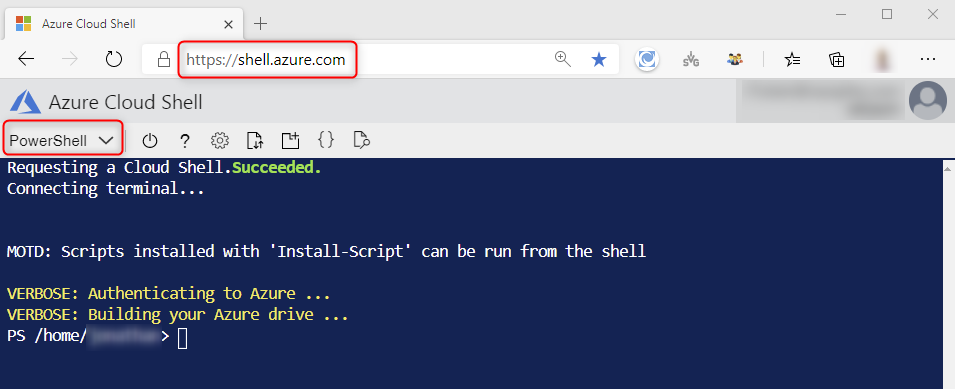
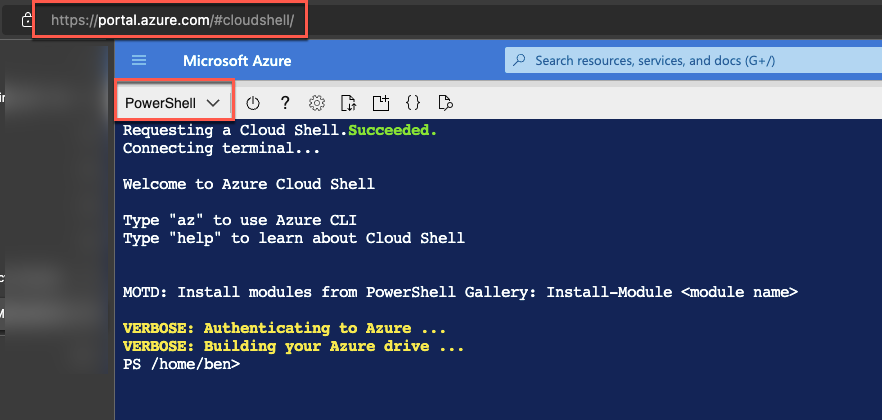
test fix updates 2

diff --git a/Hands-on lab/HOL step-by step - Building a resilient IaaS architecture.md b/Hands-on lab/HOL step-by step - Building a resilient IaaS architecture.md
@@ -211,7 +211,7 @@ In this task, you will build a Windows Failover Cluster and configure SQL Always
 
 9.  On **SQLVM1**, select **Start** and then choose **Windows PowerShell**.
 
-    ![Screenshot of the Windows PowerShell ISE icon.](images/image71.png "Windows PowerShell ISE icon")
+    ![Screenshot of the Windows PowerShell icon.](images/image71.png "Windows PowerShell icon")
 
 10. Copy and paste  the following command into PowerShell ISE and execute it. This will create the Windows Failover Cluster and add all the SQL VMs as nodes in the cluster. It will also assign a static IP address of **10.0.2.99** to the new Cluster named **AOGCLUSTER**.
 
@@ -411,7 +411,7 @@ In this task, you will build a Windows Failover Cluster and configure SQL Always
 
     ![A call out points to ContosoInsurance (Synchronized) in SQL Management Studio.](images/image202.png "SQL Management Studio")
 
-57. Move back to **PowerShell ISE** on **SQLVM1**. Open a new file, paste in the following script, and select the **Play** button. This will update the Failover cluster with the IP address of the Listener that you created for the AOG.
+57. Move back to **PowerShell** on **SQLVM1**. Open a new file, paste in the following script, and select the **Play** button. This will update the Failover cluster with the IP address of the Listener that you created for the AOG.
 
     ```Powershell
     $ClusterNetworkName = "Cluster Network 1"
@@ -423,7 +423,7 @@ In this task, you will build a Windows Failover Cluster and configure SQL Always
     Start-ClusterResource -Name "BCDRAOG"
     ```
 
-    ![In the Windows PowerShell ISE window, the play button is selected. The script from the lab guide has been executed.](images/ha-ise-listenerip.png "Windows PowerShell ISE window")
+    ![In the Windows PowerShell window, the script from the lab guide has been executed.](images/ha-ise-listenerip.png "Windows PowerShell window")
 
 58. Move back to SQL Management Studio and select **Connect** and then **Database Engine**.
 
@@ -499,11 +499,11 @@ In this exercise, you will enable a secondary DR site in East US 2. This site wi
 
 In this task, you will deploy the resources used by the DR environment. First, you will deploy a template which will create the network and virtual machines. You will then manually deploy the Recovery Services Vault and Azure Automation account used by Azure Site Recovery.
 
-1.  In a new browser tab, navigate to **https://shell.azure.com**. Open a **PowerShell** session, and create a Cloud Shell storage account if prompted to do so.
+1.  In a new browser tab, navigate to **https://shell.azure.com**, you'll be redirected to **https://portal.azure.com/#cloudshell** automatically. Open a **PowerShell** session, and create a Cloud Shell storage account if prompted to do so.
 
     ![Screenshot of the Azure Cloud Shell with URL and PowerShell mode highlighted.](images/dr-cloudshell.png "Azure Cloud Shell")
 
-2.  Execute the following commands. These will create the DR resource group and deploy the DR resources. 
+2.  Update the **-Location** parameter in each of the commands below to be a different location than **ContosoRG11**. Execute the commands. These commands will create the DR resource group and deploy the DR resources. 
     You can proceed to the following tasks while the template deployment is in progress.
 
     ```PowerShell
@@ -555,7 +555,7 @@ Next, you will create the Recovery Services Vault used to replicate the Web tier
 
 8.  From the Azure portal, select **+Create a resource**, followed by **IT & Management Tools**, then **Automation**.
 
-9.  Complete the **Add Automation Account** blade using the following inputs and then select **Create**:
+9.  Complete the **Add Automation Account** blade using the following inputs and then select **Review + Create** followed by **Create**:
 
     - **Name**: Enter a Globally unique name starting with `BCDR`.
     - **Resource group**: Use existing / **ContosoRG2**
@@ -566,9 +566,9 @@ Next, you will create the Recovery Services Vault used to replicate the Web tier
 
     > **Note:** Azure Automation accounts are only allowed to be created in certain Azure regions, but they can act on any region in Azure (except Government, China or Germany). It is not a requirement to have your Azure Automation account in the same region as the failover resources, but it **CANNOT** be in your primary region.
 
-10. Once the Azure automation account has been created, open the account and select **Modules gallery** under **Shared Resources**.
+10. Once the Azure automation account has been created, open the account and select **Modules** under **Shared Resources**.
 
-    ![Under Shared Resources, Modules gallery is selected.](images/image46.png "Shared Resources section")
+    ![Under Shared Resources, Modules is selected.](images/image46.png "Shared Resources section")
 
 11. When the Modules load, search for and select **Az.Accounts**, then select **Import**, then **OK**.
 
@@ -588,17 +588,17 @@ Next, you will create the Recovery Services Vault used to replicate the Web tier
 
 > **Note**: You must be connected to the **LABVM** to complete the next steps.
 
-15. Select the **Folder** icon on the Import blade and select the file **ASRRunbookSQL.ps1** from the `C:\HOL\` directory on the **LABVM**. The Runbook type should default to **PowerShell Workflow**. Notice that the Name can't be changed. This is the name of the Workflow inside of the Runbook script. Select **Create**.
+15.  Select the **Folder** icon on the Import blade and select the file **ASRRunbookSQL.ps1** from the `C:\HOL\` directory on the **LABVM**. Set the Runbook type to **PowerShell Workflow**. Update the name to be **ASRSQLFailover**. This is the name of the Workflow inside of the Runbook script. Leave everything else set to the default. Select **Import**.
 
     ![Fields in the 'Import a runbook' blade are set to the previously defined values.](images/dr-rbimp2.png "Import a runbook")
 
-16. Once the Runbook is imported, the runbook editor will load. If you wish, you can review the comments to better understand the runbook. Once you are ready, select **Publish**, followed by **Yes** at the confirmation prompt. This makes the runbook available for use.
+16.  Once the Runbook is imported, the runbook editor will load. If you wish, you can review the comments to better understand the runbook. Once you are ready, select **Publish**, followed by **Yes** at the confirmation prompt. This makes the runbook available for use.
 
     ![On the top menu of the Edit PowerShell Workflow Runbook blade, Publish is selected.](images/dr-rbpub.png "Publish runbook")
 
-17. Repeat the above steps to import and publish the **ASRRunbookWEB.ps1** runbook.
+17.  Repeat the above steps to import and publish the **ASRRunbookWEB.ps1** runbook. Name this Runbook **ASRWEBFailover**.
 
-18. Navigate back to **Runbooks**, and make sure that both Runbooks show as **Published**.
+18.  Navigate back to **Runbooks**, and make sure that both Runbooks show as **Published**.
 
     ![Two runbooks have authoring status as published: ASRSQLFailover, and ASRWEBFailover.](images/image70.png "Runbooks")
 
@@ -700,7 +700,7 @@ This task comprises the following steps:
 
 3.  Return to your browser tab containing your Bastion session with **SQLVM1**. (If you have closed the tab, reconnect using Azure Bastion with username `demouser@contoso.com` and password `Demo!pass123`.)
 
-4.  On **SQLVM1**, use **Windows PowerShell ISE** to execute the following command. This will add **SQLVM3** as a node in the existing Windows Server Failover Cluster.
+4.  On **SQLVM1**, use **Windows PowerShell** to execute the following command. This will add **SQLVM3** as a node in the existing Windows Server Failover Cluster.
 
     ```PowerShell
     Add-ClusterNode -Name SQLVM3
@@ -795,7 +795,7 @@ This task comprises the following steps:
 
     ![Screenshot of the BCDRAOG Dashboard showing SQLVM3 synchronizing.](images/dr-sql-dash.png "BCDRAOG Dashboard")
 
-27. Move back to **PowerShell ISE** on **SQLVM1**. Open a new file, paste in the following script, and select the **Play** button. This will update the Failover cluster with the new Listener IP address that you created.
+27. Move back to **PowerShell** on **SQLVM1**. Paste in the following script, and press **Return**. This will update the Failover cluster with the new Listener IP address that you created.
 
     ```Powershell
     $ClusterNetworkName = "Cluster Network 2"
@@ -812,7 +812,6 @@ This task comprises the following steps:
 28. Move back to Failover Cluster Manager on **SQLVM1**, and select **Roles**, then **BCDRAOG**.  Notice how the **Resources** tab shows that the new IP address **10.1.2.100** has been added, and is currently Offline.
 
     ![In the Failover Cluster Manager tree view, Roles is selected. Under Roles, BCDRAOG is selected, and details of the role display.](images/dr-fcm-role.png "Failover Cluster Manager")
-
 
 ### Task 4: Configure DR for the Web tier
 
